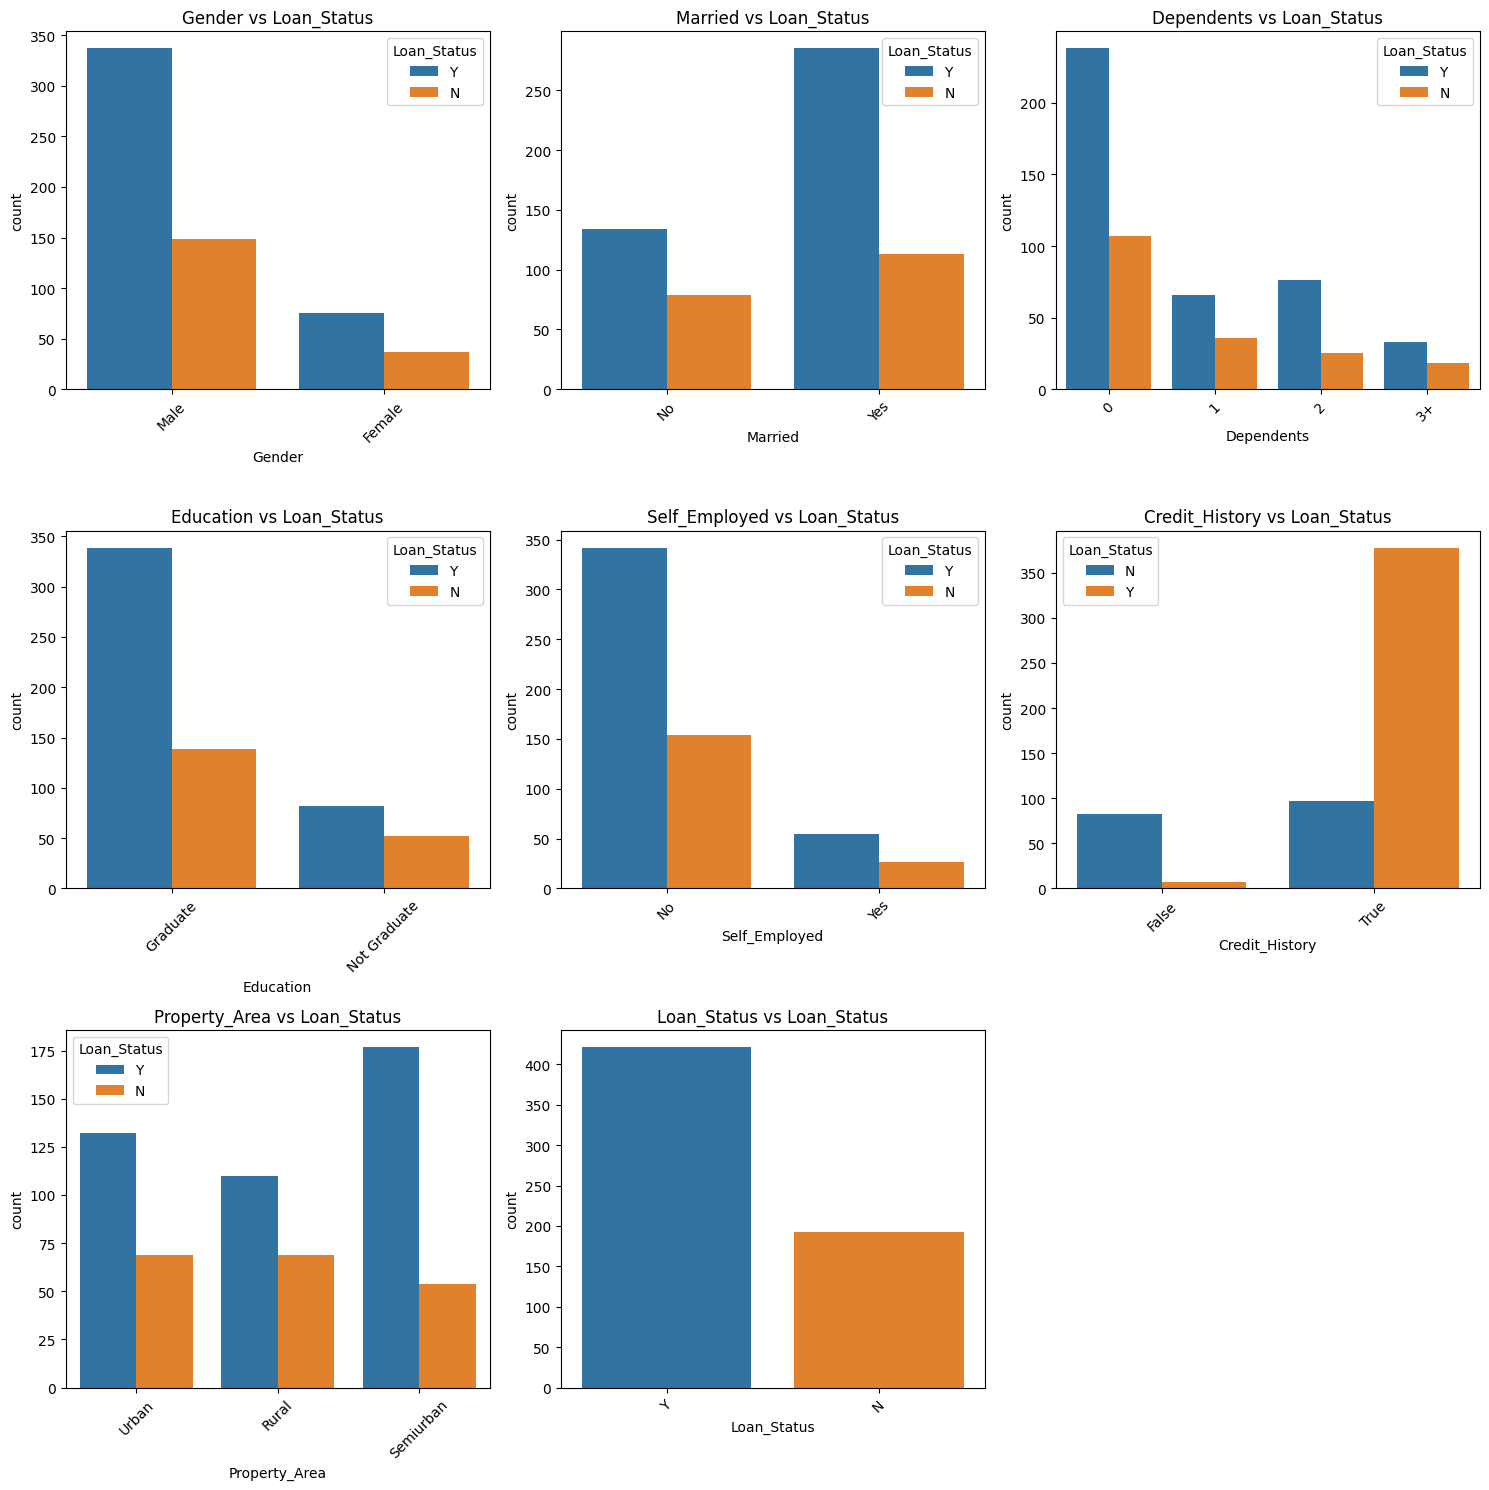
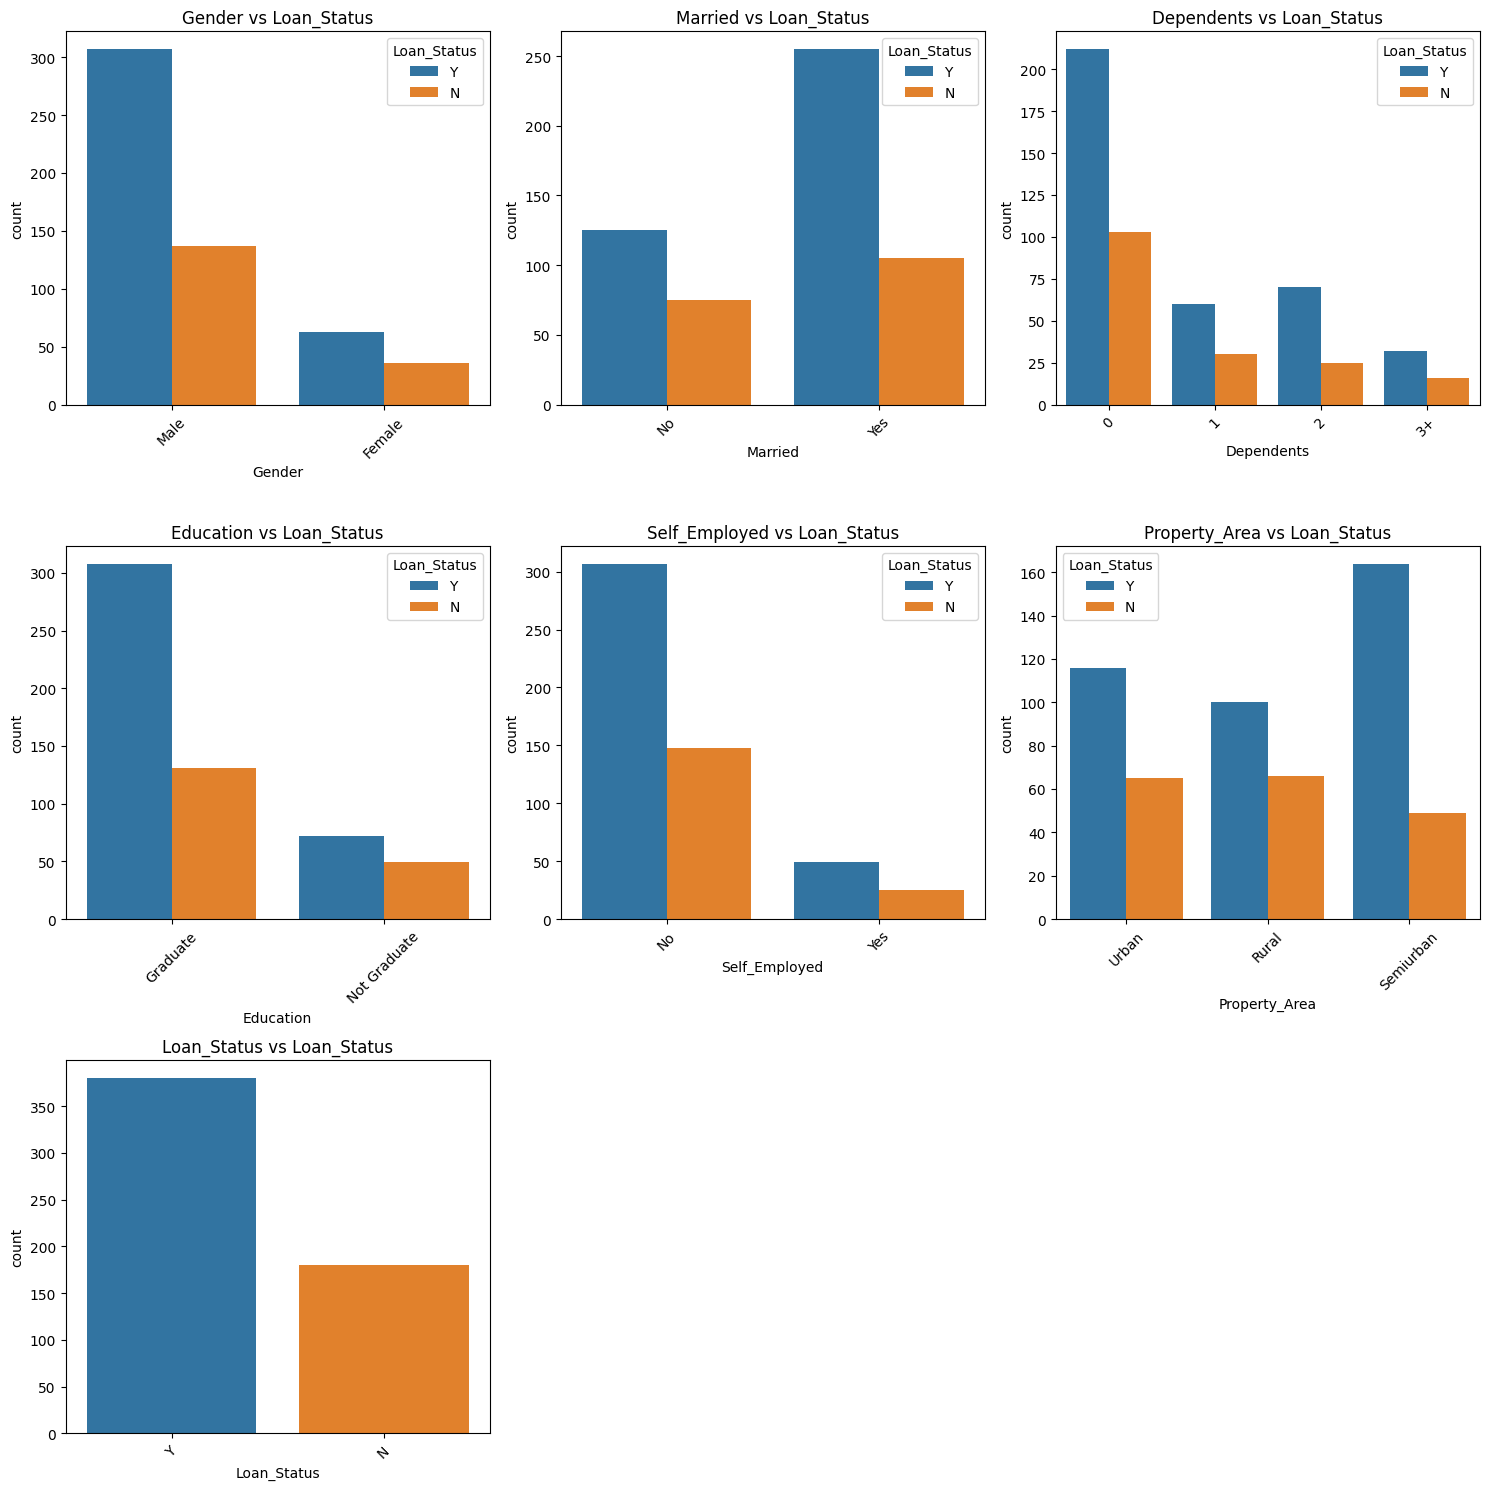
16_4: 1- Did encoding for fetures to be used in modeling and did train/test split. 2- built logistic reggression, hgypertuned it - with 5 fold stratified cross validation, and did some evalutations

diff --git a/src/modeling/logistic_regression.py b/src/modeling/logistic_regression.py
@@ -1,0 +1,98 @@
+import statsmodels.api as sm
+from sklearn.linear_model import LogisticRegression
+from sklearn.model_selection import GridSearchCV, StratifiedKFold
+
+from src.ingestion_preprocessing.feature_eng import run_feature_eng
+from src.ingestion_preprocessing.data_encoding_splitting import run_data_encoding_splitting
+from src.utils.config import logger
+
+
+def build_logistic_regression(X_train, y_train):
+    """
+    Builds a logistic regression model using statsmodels for interpretability.
+    Adds a constant term to the training data to include an intercept in the model.
+    """
+    logger.info("Building logistic regression model using statsmodels.")
+    try:
+        X_train_const = sm.add_constant(X_train)
+        model = sm.Logit(y_train, X_train_const)
+        result = model.fit()
+        logger.info("Logistic regression model trained successfully.")
+        logger.info(f"\n{result.summary()}")
+        return result
+    except Exception as e:
+        logger.error(f"Error building logistic regression model: {e}")
+        return None
+
+
+def tune_logistic_regression(X_train, y_train):
+    logger.info("Running GridSearchCV for logistic regression hyperparameter tuning.")
+    try:
+        stratified_kfold = StratifiedKFold(n_splits=5, shuffle=True, random_state=42)
+
+        param_grid = [
+            {
+                'C': [0.01, 0.1, 1, 10, 100],
+                'solver': ['liblinear'],
+                'penalty': ['l1', 'l2'],
+                'max_iter': [500, 1000],
+            },
+            {
+                'C': [0.01, 0.1, 1, 10, 100],
+                'solver': ['lbfgs'],
+                'penalty': ['l2'],
+                'max_iter': [500, 1000],
+            },
+        ]
+
+        base_model = LogisticRegression(random_state=42)
+        grid_search = GridSearchCV(
+            estimator=base_model,
+            param_grid=param_grid,
+            cv=stratified_kfold,
+            scoring='accuracy',
+            n_jobs=-1,
+            refit=True,
+        )
+        grid_search.fit(X_train, y_train)
+
+        logger.info(f"Best parameters found: {grid_search.best_params_}")
+        logger.info(f"Best cross-validation score: {grid_search.best_score_:.4f}")
+        return grid_search
+    except Exception as e:
+        logger.error(f"Error during logistic regression grid search: {e}")
+        return None
+
+
+def run_logistic_regression():
+    logger.info("Running logistic regression modeling pipeline.")
+
+    # Step 1: Run feature engineering to produce the cleaned dataset
+    cleaned_df = run_feature_eng()
+    if cleaned_df is None:
+        logger.error("Modeling pipeline failed: could not produce cleaned data.")
+        return None
+
+    # Step 2: Encode and split the cleaned data into train/test sets
+    X_train, X_test, y_train, y_test = run_data_encoding_splitting(cleaned_df)
+    if any(item is None for item in [X_train, X_test, y_train, y_test]):
+        logger.error("Modeling pipeline failed: data encoding or splitting produced None.")
+        return None
+
+    # Step 3: Find suitable logistic regression hyperparameters with grid search.
+    grid_search = tune_logistic_regression(X_train, y_train)
+    if grid_search is None:
+        logger.error("Modeling pipeline failed: grid search tuning did not complete.")
+        return None
+
+    # Step 4: Fit the statsmodels logistic regression for statistical interpretation.
+    result = build_logistic_regression(X_train, y_train)
+    return {
+        'grid_search': grid_search,
+        'best_model': grid_search.best_estimator_,
+        'statsmodels_result': result,
+    }
+
+
+
+

diff --git a/src/ingestion_preprocessing/data_encoding_splitting.py b/src/ingestion_preprocessing/data_encoding_splitting.py
@@ -1,0 +1,68 @@
+import pandas as pd
+from sklearn.model_selection import train_test_split
+from sklearn.preprocessing import OneHotEncoder
+
+from src.ingestion_preprocessing.feature_eng import run_feature_eng
+from src.utils.config import logger
+
+
+def split_X_y(cleaned_df):
+    logger.info("Splitting cleaned DataFrame into predictors (X) and target (y).")
+    try:
+        predictor_cols = ['Property_Area', 'Education', 'Married', 'Credit_History']
+        X = cleaned_df[predictor_cols].copy()
+        y = cleaned_df['Loan_Status'].map({'Y': 1, 'N': 0})
+        logger.info(f"Predictors selected: {predictor_cols}")
+        logger.info("Target variable mapped: Y -> 1, N -> 0")
+        return X, y
+    except Exception as e:
+        logger.error(f"Error splitting predictors and target: {e}")
+        return None, None
+
+
+def encode_predictors(X):
+    logger.info("Encoding predictor columns using OneHotEncoder.")
+    try:
+        encoder = OneHotEncoder(drop='first', sparse_output=False, handle_unknown='ignore')
+        encoded_array = encoder.fit_transform(X)
+        encoded_columns = encoder.get_feature_names_out(X.columns)
+        encoded_X = pd.DataFrame(encoded_array, columns=encoded_columns, index=X.index)
+
+        logger.info("Predictor columns encoded successfully.")
+        return encoded_X, encoder
+    except Exception as e:
+        logger.error(f"Error encoding predictor columns: {e}")
+        return None, None
+
+
+def split_train_test(X, y, test_size=0.2, random_state=42):
+    logger.info("Splitting X and y into training and testing sets.")
+    try:
+        X_train, X_test, y_train, y_test = train_test_split(
+            X,
+            y,
+            test_size=test_size,
+            random_state=random_state,
+            stratify=y,
+        )
+        logger.info(
+            f"Train-test split completed: X_train={X_train.shape}, X_test={X_test.shape}, "
+            f"y_train={y_train.shape}, y_test={y_test.shape}"
+        )
+        return X_train, X_test, y_train, y_test
+    except Exception as e:
+        logger.error(f"Error splitting X and y into train and test sets: {e}")
+        return None, None, None, None
+
+def run_data_encoding_splitting(cleaned_df):
+    logger.info("Running data encoding and splitting pipeline.")
+    X, y = split_X_y(cleaned_df)
+    if X is not None and y is not None:
+        encoded_X, encoder = encode_predictors(X)
+        if encoded_X is not None:
+            X_train, X_test, y_train, y_test = split_train_test(encoded_X, y)
+            return X_train, X_test, y_train, y_test
+    logger.error("Data encoding and splitting pipeline failed.")
+    return None, None, None, None
+
+

diff --git a/src/evaluation/evaluate_lg.py b/src/evaluation/evaluate_lg.py
@@ -1,0 +1,60 @@
+from sklearn.metrics import accuracy_score, classification_report, confusion_matrix, f1_score, precision_score, recall_score
+
+from src.ingestion_preprocessing.data_encoding_splitting import run_data_encoding_splitting
+from src.ingestion_preprocessing.feature_eng import run_feature_eng
+from src.modeling.logistic_regression import tune_logistic_regression
+from src.utils.config import logger
+
+
+def evaluate_logistic_regression(model, X_test, y_test):
+	logger.info("Evaluating logistic regression model performance on the test set.")
+	try:
+		y_pred = model.predict(X_test)
+
+		cm = confusion_matrix(y_test, y_pred)
+		accuracy = accuracy_score(y_test, y_pred)
+		precision = precision_score(y_test, y_pred)
+		recall = recall_score(y_test, y_pred)
+		f1 = f1_score(y_test, y_pred)
+		report = classification_report(y_test, y_pred)
+
+		logger.info(f"Confusion Matrix:\n{cm}")
+		logger.info(f"Accuracy: {accuracy:.4f}")
+		logger.info(f"Precision: {precision:.4f}")
+		logger.info(f"Recall: {recall:.4f}")
+		logger.info(f"F1 Score: {f1:.4f}")
+		logger.info(f"Classification Report:\n{report}")
+
+		return {
+			'confusion_matrix': cm,
+			'accuracy': accuracy,
+			'precision': precision,
+			'recall': recall,
+			'f1_score': f1,
+			'classification_report': report,
+		}
+	except Exception as e:
+		logger.error(f"Error evaluating logistic regression model: {e}")
+		return None
+
+
+def run_logistic_regression_evaluation():
+	logger.info("Running logistic regression evaluation pipeline.")
+
+	cleaned_df = run_feature_eng()
+	if cleaned_df is None:
+		logger.error("Evaluation pipeline failed: could not produce cleaned data.")
+		return None
+
+	X_train, X_test, y_train, y_test = run_data_encoding_splitting(cleaned_df)
+	if any(item is None for item in [X_train, X_test, y_train, y_test]):
+		logger.error("Evaluation pipeline failed: data encoding or splitting produced None.")
+		return None
+
+	grid_search = tune_logistic_regression(X_train, y_train)
+	if grid_search is None:
+		logger.error("Evaluation pipeline failed: model tuning did not complete.")
+		return None
+
+	best_model = grid_search.best_estimator_
+	return evaluate_logistic_regression(best_model, X_test, y_test)

diff --git a/src/ingestion_preprocessing/feature_eng.py b/src/ingestion_preprocessing/feature_eng.py
@@ -2,6 +2,8 @@ import os
 from pathlib import Path
 import numpy as np
 import pandas as pd
+from sklearn.model_selection import train_test_split
+from sklearn.preprocessing import OneHotEncoder
 from src.utils.config import logger
 from src.utils.helpers import load_data
 
@@ -87,7 +89,18 @@ def drop_missing_target(cleaned_df):
         logger.error(f"Error dropping rows with missing target variable: {e}")
     return cleaned_df
 
-def run_cleaning_pipeline():
+def drop_cat_missing(cleaned_df, col_name):
+    logger.info(f"Dropping rows with missing values in categorical column: {col_name}.")
+    try:
+        before_count = cleaned_df.shape[0]
+        cleaned_df.dropna(subset=[col_name], inplace=True)
+        after_count = cleaned_df.shape[0]
+        logger.info(f"Removed {before_count - after_count} rows with missing values in {col_name}.")
+    except Exception as e:
+        logger.error(f"Error dropping rows with missing values in {col_name}: {e}")
+    return cleaned_df
+
+def run_feature_eng():
     file_path = 'database/Loan Approval Dataset.csv'  # Update with your actual file path
     df = load_data(file_path)
     if df is not None:
@@ -96,6 +109,10 @@ def run_cleaning_pipeline():
         cleaned_df = treat_inconsistent_data(cleaned_df)
         cleaned_df = feature_handling(cleaned_df)
         cleaned_df = drop_missing_target(cleaned_df)
+        cleaned_df = drop_cat_missing(cleaned_df, 'Property_Area')
+        cleaned_df = drop_cat_missing(cleaned_df, 'Education')
+        cleaned_df = drop_cat_missing(cleaned_df, 'Married')
+        cleaned_df = drop_cat_missing(cleaned_df, 'Credit_History')
         cleaned_df = retype_columns(cleaned_df, 'Credit_History', 'boolean')
         logger.info("cleaned df types after retyping:")
         logger.info(cleaned_df.dtypes)
@@ -106,4 +123,4 @@ def run_cleaning_pipeline():
     else:
         logger.error("Failed to load data for cleaning pipeline.")
         return None
-run_cleaning_pipeline()
+

diff --git a/src/main.py b/src/main.py
@@ -1,11 +1,27 @@
+from src.evaluation.evaluate_lg import run_logistic_regression_evaluation
+from src.modeling.logistic_regression import run_logistic_regression
 from src.utils.config import logger
-from src.utils.helpers import load_data
-from src.ingestion_preprocessing.feature_eng import run_cleaning_pipeline
+
+
 def main():
-    logger.info("Starting the Bank Loan Approval Prediction project.")
-    # Your main code for data loading, preprocessing, model training, etc. goes here.
-    cleaned_df = run_cleaning_pipeline()
-    train_df, test_df = run_data_splitting(cleaned_df)
-    logger.info("Finished processing.")
+	logger.info("Starting the logistic regression training and evaluation pipeline.")
+
+	model_results = run_logistic_regression()
+	if model_results is None:
+		logger.error("Training pipeline failed. Skipping evaluation.")
+		return None
+
+	evaluation_results = run_logistic_regression_evaluation()
+	if evaluation_results is None:
+		logger.error("Evaluation pipeline failed.")
+		return None
+
+	logger.info("Training and evaluation pipeline completed successfully.")
+	return {
+		'model_results': model_results,
+		'evaluation_results': evaluation_results,
+	}
+
+
 if __name__ == "__main__":
-    main()
+	main()

diff --git a/src/analysis/eda.py b/src/analysis/eda.py
@@ -123,6 +123,18 @@ def run_eda_num():
         plot_qq_plots(df)
         num_t_test(df)
 
+def explore_categorical_features(cleaned_df):
+    logger.info("Exploring categorical features in the dataset.")
+    try:
+        categorical_cols = cleaned_df.select_dtypes(include=['object']).columns
+        for col in categorical_cols:
+            logger.info(f"Exploring {col}:")
+            logger.info(cleaned_df[col].value_counts())
+            logger.info(cleaned_df[col].isnull().sum())
+            logger.info(cleaned_df[col].unique())
+    except Exception as e:
+        logger.error(f"Error exploring categorical features: {e}")
+
 # 1-plot bar plot for categorical features and save the plots in figures/eda/categorical_distributions.png
 def plot_categorical_distributions(cleaned_df):
     logger.info("Plotting distributions of categorical features.")
@@ -194,6 +206,7 @@ def run_eda_cat():
         plot_categorical_distributions(df)
         plot_categorical_target_relationships(df)
         cat_significance_test(df)
+        explore_categorical_features(df)
 
 def run_eda():
     run_eda_num()

diff --git a/src/utils/helpers.py b/src/utils/helpers.py
@@ -5,7 +5,9 @@ from src.utils.config import logger
 def load_data(file_path):
     logger.info(f"Loading data from {file_path}")
     try:
-        df = pd.read_csv(file_path, encoding='utf-8', index_col='Loan_ID')
+        # Do not force an index column here; different datasets may or may not
+        # contain Loan_ID as a regular column.
+        df = pd.read_csv(file_path, encoding='utf-8')
         logger.info("Data loaded successfully.")
         return df
     except Exception as e:
